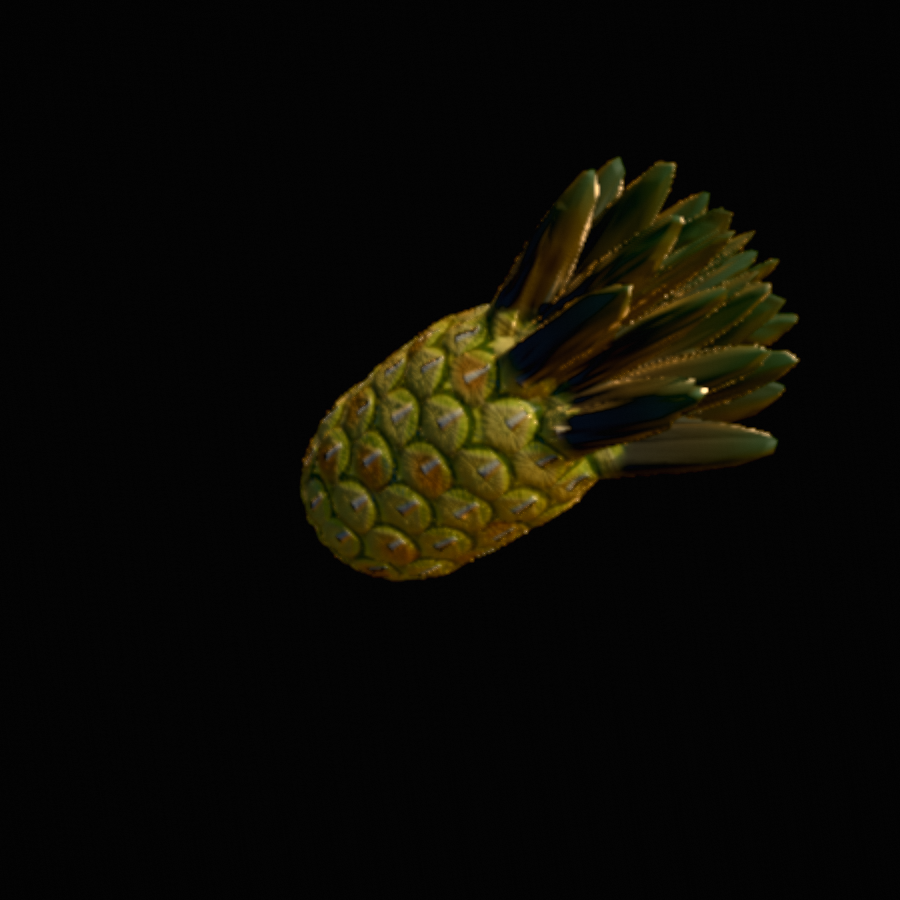
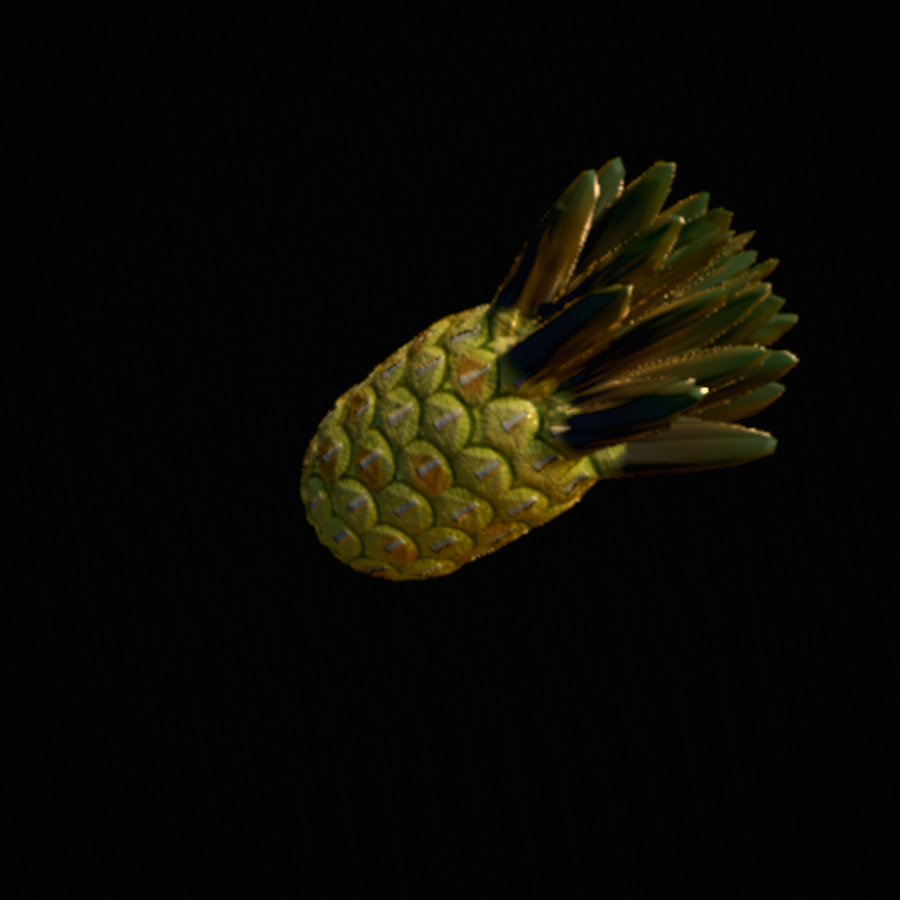
r47n: pineapple — the r47m tweaks at the midpoint of 1x and 3-4x, and a riper yellow
Player: the r47m percentages were sub-perceptual; take the midpoint
between them and the exaggerated tile (rimW 0.131, ring colour up, thorn
length 0.678, eye centre (0.63, 0.53, 0.13)). Then "a slightly unripe
one": the eye's green-to-yellow gradient turns yellow sooner (eyePow
3.0 → 1.3), interior green shifted toward yellow-green (0.24, 0.31,
0.07), the centre brighter still (0.70, 0.60, 0.15), the ground warmed
to (0.54, 0.46, 0.12). Shell hue 45° → 48.5°, saturation 0.81 → 0.77.
drawprobe/fruitviews clean.

diff --git a/src/fruit/species.js b/src/fruit/species.js
@@ -3869,12 +3869,12 @@ const PINE_DEFAULTS = {
   blemMix: 0.080, sheathV: 0.600, creaseMix: 0.150, creaseH: 0.200, roughThorn: 0.450,
   creaseW: 0.360, eyeY: 0.040, eyeR: 0.600, eyeAspect: 0.900, tipY: 0.440, bractW: 0.600,
   bractCurve: 0.850, spread: 0.500, grain: 0.080, veinMix: 0.060, eyeMix: 0.950, eyeGrad: 1.000,
-  eyePow: 3.000, rimMix: 1.000, rimLow: -0.450, rimW: 0.162, bractMix: 0.600, bractOverEye: 0.700,
+  eyePow: 1.300, rimMix: 1.000, rimLow: -0.450, rimW: 0.131, bractMix: 0.600, bractOverEye: 0.700,
   soft: 3.000, jit: 0.800, lipMix: 0.100, lipH: 0.150, roughGold: 0.340, roughEye: 0.360,
-  roughBract: 0.450, eyeH: 0.800, bractH: 0.250, thornH: 2.200, thornW: 0.050, thornLen: 0.575,
-  gold: [0.5000, 0.4200, 0.1000], goldGreen: [0.4200, 0.4000, 0.0900],
-  vein: [0.2400, 0.1400, 0.0500], eyeGreen: [0.1300, 0.2300, 0.0450],
-  eyeYellow: [0.5616, 0.4752, 0.1188], rim: [0.0336, 0.0651, 0.0095],
+  roughBract: 0.450, eyeH: 0.800, bractH: 0.250, thornH: 2.200, thornW: 0.050, thornLen: 0.678,
+  gold: [0.5400, 0.4600, 0.1200], goldGreen: [0.4700, 0.4400, 0.1100],
+  vein: [0.2400, 0.1400, 0.0500], eyeGreen: [0.2400, 0.3100, 0.0700],
+  eyeYellow: [0.7000, 0.6000, 0.1500], rim: [0.0393, 0.0751, 0.0113],
   tan: [0.4200, 0.3400, 0.1500], thorn: [0.5000, 0.4500, 0.3600],
   creaseC: [0.0500, 0.0650, 0.0180],
 };
